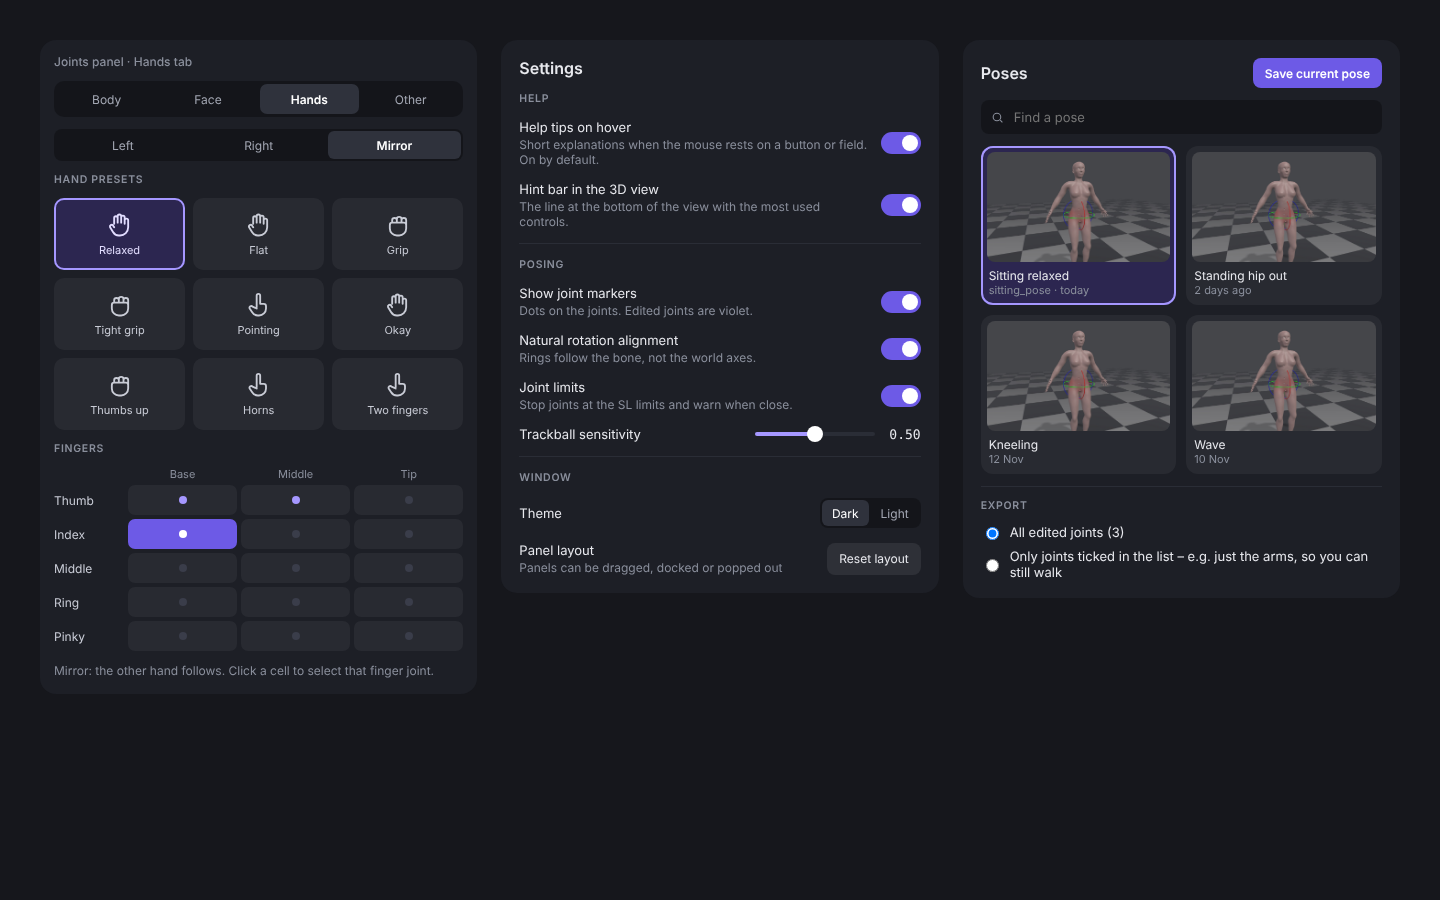
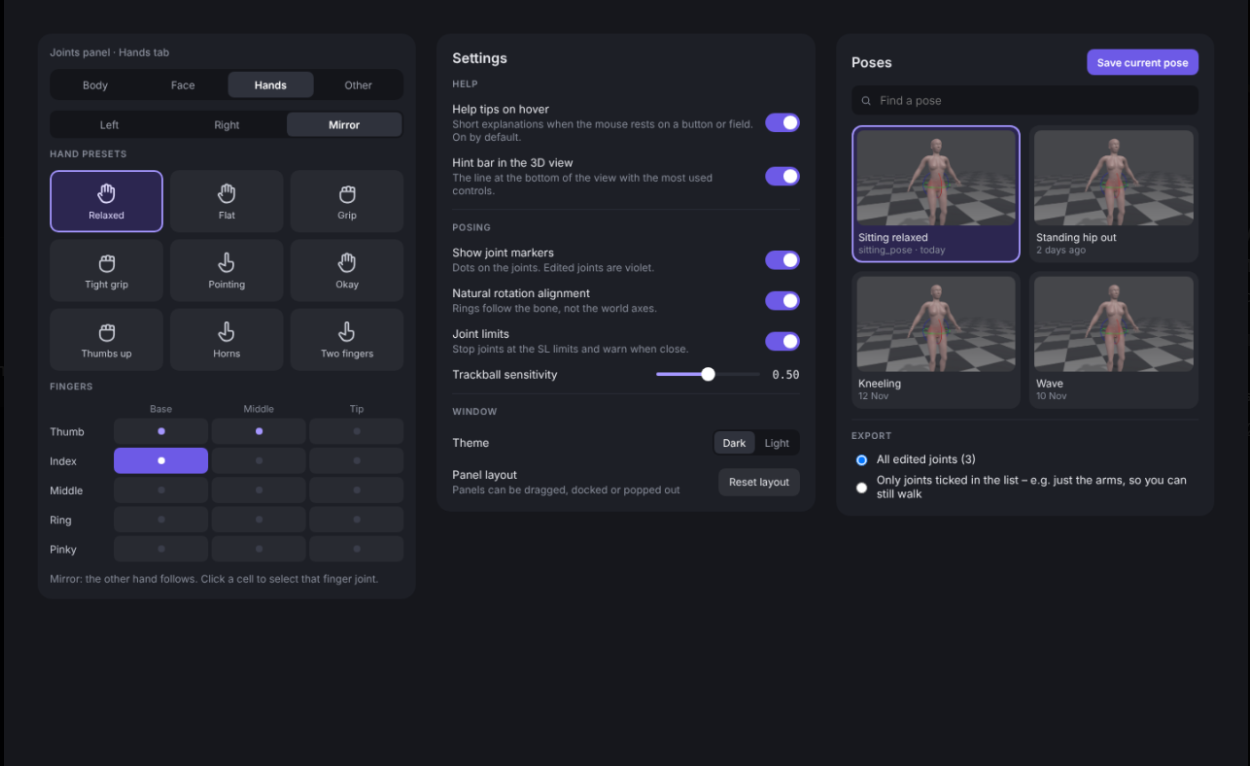
docs: refresh posing-ux reference mockups (#149)
* docs: register posing-ux mockup refresh job

* docs: refresh posing-ux reference mockups

Replace both reference screenshots under docs/images/posing-ux/ with
cleaner, up-to-date screenshots of the same design (main editor view;
Hands tab, Settings and Poses panels), supplied by the project owner.

* docs: mark posing-ux mockup refresh job done

diff --git a/docs/work/docs-posing-ux-mockup-refresh.md b/docs/work/docs-posing-ux-mockup-refresh.md
@@ -1,0 +1,14 @@
+Branch: docs/posing-ux-mockup-refresh
+Status: done
+Pull request: pending
+Files:
+- docs/images/posing-ux/main-window.png
+- docs/images/posing-ux/hands-settings-poses.png
+- docs/POSING_UX.md
+
+## What
+
+Replace the two reference mockup screenshots under docs/images/posing-ux/
+with fresh, cleaner screenshots of the same design (main editor view, and
+Joints/Hands + Settings + Poses panels), supplied directly by the project
+owner. No app behaviour changes.
